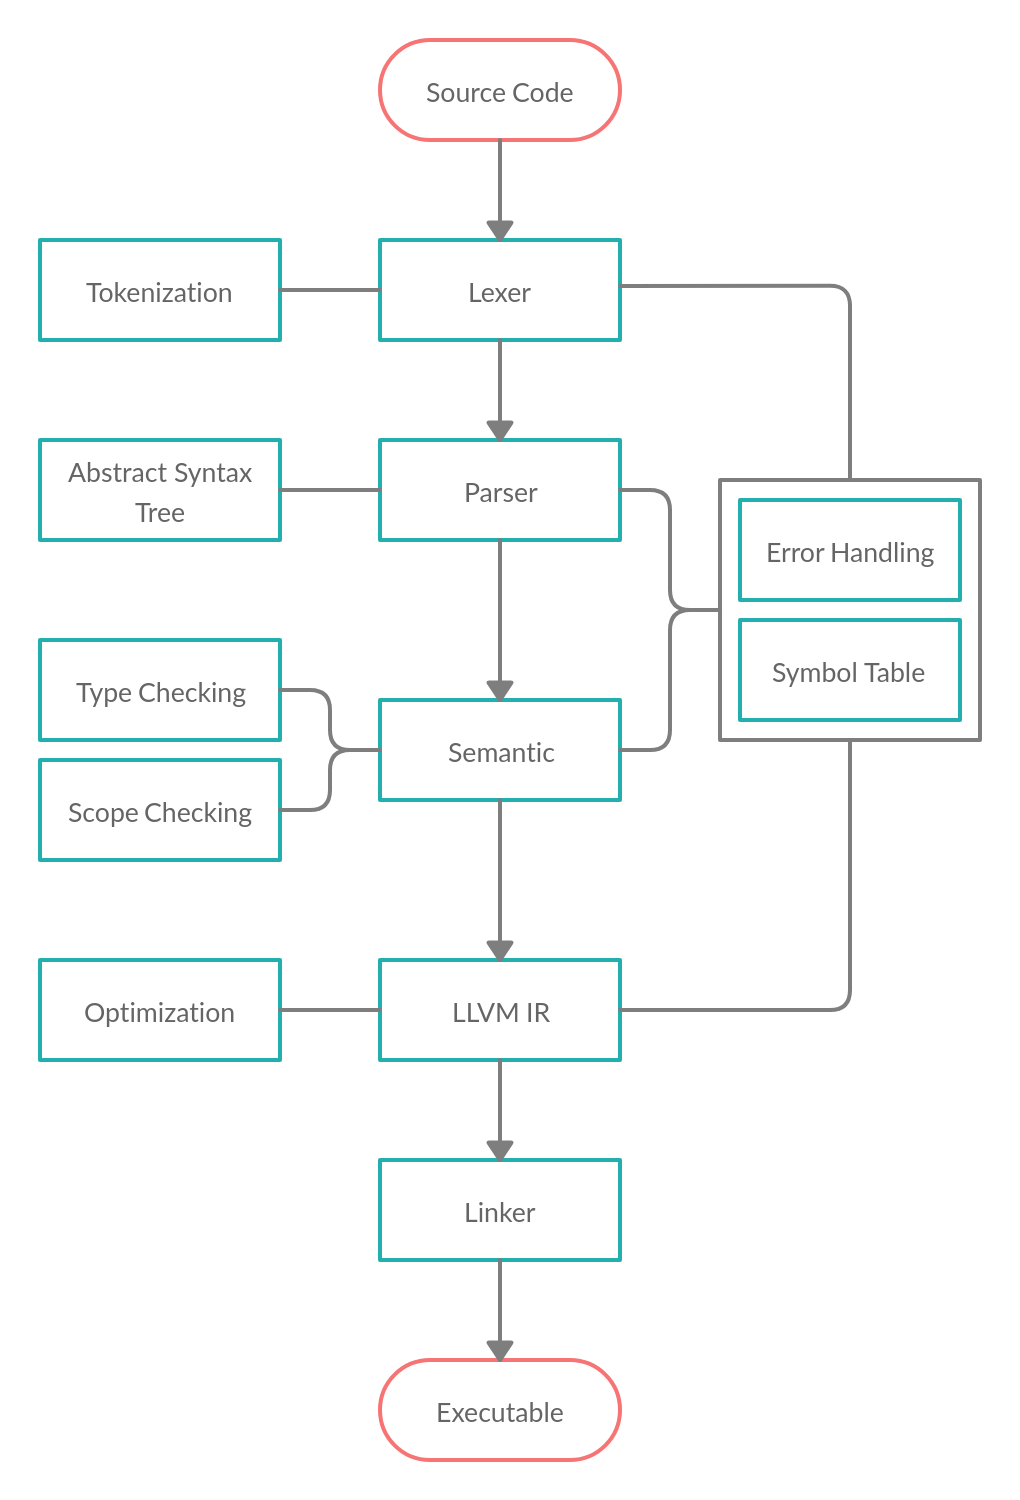
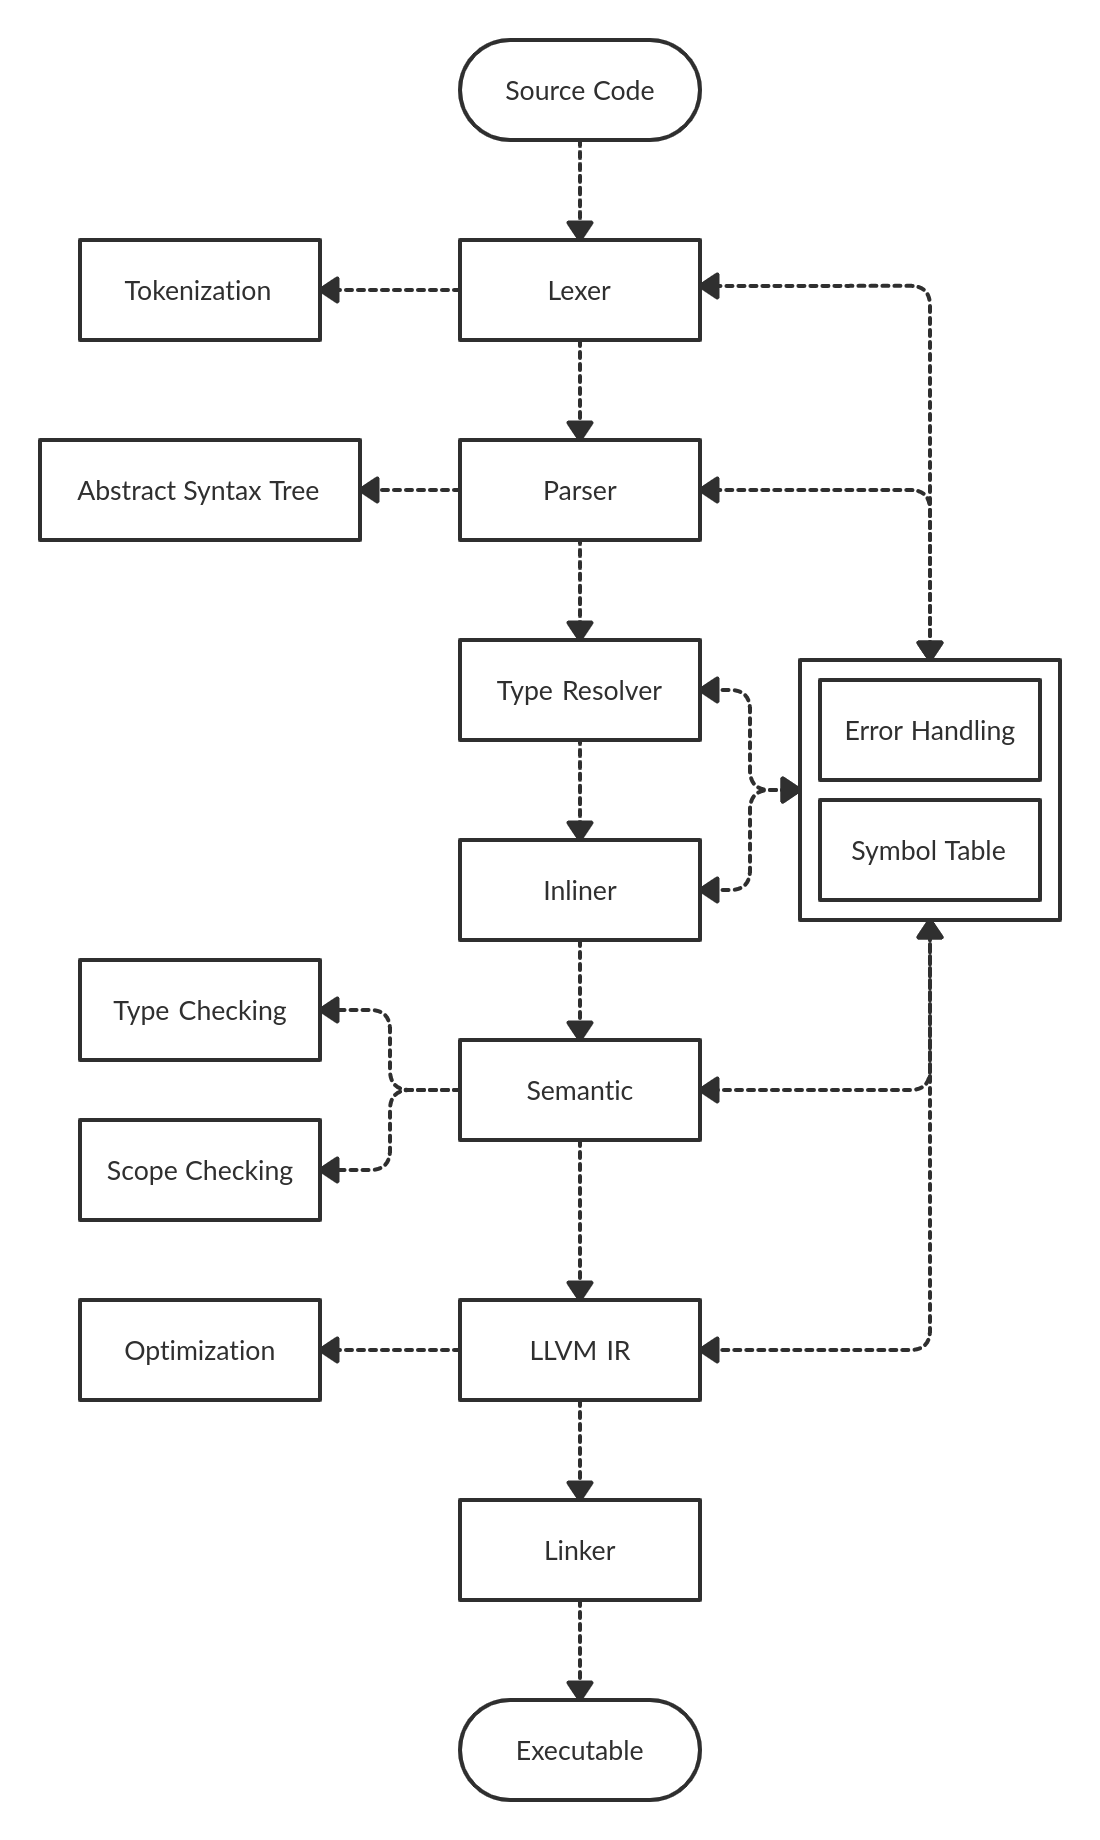
Revised the project structure a bit.

diff --git a/compiler/src/semantic/typeresolver.cpp b/compiler/src/semantic/typeresolver.cpp
@@ -25,8 +25,6 @@ void TypeResolver::visit(const SharedASTNode &node) {
         while (firstIdentifier->getLastIdentifier() != nullptr)
             firstIdentifier = firstIdentifier->getLastIdentifier();
 
-        if (firstIdentifier->getKind() == ASTNode::FUNCTION_CALL)
-            return TypeResolver::visit(std::static_pointer_cast<FunctionCallNode>(node));
         return TypeResolver::visit(firstIdentifier);
     } else if (node->getKind() == ASTNode::NUMBER) {
         TypeResolver::visit(std::static_pointer_cast<NumberNode>(node));
@@ -200,11 +198,13 @@ void TypeResolver::visit(const SharedIdentifierNode &identifierNode) {
         identifierNode->findNodeOfParents<RootNode>()->searchWithImports(
                 foundNodes, identifierNode->getIdentifier()->getContent(), scopeCheck);
     } else if (identifierNode->getKind() == ASTNode::FUNCTION_CALL) {
-        auto functionCall = std::static_pointer_cast<FunctionCallNode>(identifierNode);
+        auto functionCallNode = std::static_pointer_cast<FunctionCallNode>(identifierNode);
+        for (const auto &argument : functionCallNode->getArguments())
+            TypeResolver::visit(argument);
+
         auto scopeResolution = (functionNode && functionNode->getScopeResolution()) ?
                                functionNode->getScopeResolution() : nullptr;
-
-        auto scopeCheck = [identifierNode, scopeResolution, functionCall](
+        auto scopeCheck = [identifierNode, scopeResolution, functionCallNode](
                 const SharedASTNode &node) {
             if (node->getKind() != ASTNode::FUNCTION)
                 return false;
@@ -216,24 +216,24 @@ void TypeResolver::visit(const SharedIdentifierNode &identifierNode) {
                     scopeResolution->getTypeToken()->getContent()))
                 return false;
             if (function->getScopeResolution() && !scopeResolution) {
-                if (functionCall->getLastIdentifier() == nullptr ||
-                    !functionCall->getLastIdentifier()->getType()->getTargetStruct())
+                if (functionCallNode->getLastIdentifier() == nullptr ||
+                    !functionCallNode->getLastIdentifier()->getType()->getTargetStruct())
                     return false;
 
                 if (function->getScopeResolution()->getTypeToken()->getContent() !=
-                    functionCall->getLastIdentifier()->getType()->getTargetStruct()->getName()->getContent())
+                    functionCallNode->getLastIdentifier()->getType()->getTargetStruct()->getName()->getContent())
                     return false;
             }
 
             if (!function->isVariadic() &&
-                (function->getParameters().size() != functionCall->getArguments().size()))
+                (function->getParameters().size() != functionCallNode->getArguments().size()))
                 return false;
 
-            auto sortedArguments(functionCall->getArguments());
-            if (!functionCall->getSortedArguments(function, sortedArguments))
+            auto sortedArguments(functionCallNode->getArguments());
+            if (!functionCallNode->getSortedArguments(function, sortedArguments))
                 return false;
 
-            for (auto index = 0; index < functionCall->getArguments().size(); index++) {
+            for (auto index = 0; index < functionCallNode->getArguments().size(); index++) {
                 if (index >= function->getParameters().size())
                     break;
 
@@ -339,6 +339,9 @@ void TypeResolver::visit(const SharedIdentifierNode &identifierNode) {
     else if (identifierNode->isDereference())
         identifierNode->getType()->setPointerLevel(identifierNode->getType()->getPointerLevel() - 1);
 
+    if(identifierNode->getKind() == ASTNode::FUNCTION_CALL)
+        TypeResolver::visit(std::static_pointer_cast<FunctionCallNode>(identifierNode));
+
     if (identifierNode->getNextIdentifier() != nullptr &&
         identifierNode->getType()->getTargetStruct() == nullptr) {
         THROW_NODE_ERROR(identifierNode, "The identifier has no struct, so there can't be a following "
@@ -442,10 +445,6 @@ void TypeResolver::visit(const SharedStructArgumentNode &structArgumentNode) {
 void TypeResolver::visit(const SharedFunctionCallNode &functionCallNode) {
     if (functionCallNode->isTypeResolved())
         return;
-
-    for (const auto &argument : functionCallNode->getArguments())
-        TypeResolver::visit(argument);
-    TypeResolver::visit(std::static_pointer_cast<IdentifierNode>(functionCallNode));
 
     auto functionNode = std::static_pointer_cast<FunctionNode>(functionCallNode->getTargetNode());
     if (functionNode == nullptr) {

diff --git a/compiler/src/main.cpp b/compiler/src/main.cpp
@@ -1,6 +1,6 @@
 #include <iostream>
 
-#include "options/OptionParser.h"
+#include "utils/optionparser.h"
 #include "compiler/compiler.h"
 #include "compiler/options.h"
 
@@ -48,7 +48,7 @@ int main(int argc, char *argv[]) {
 
     compilerOptions.m_SearchPaths.push_back(
             compilerOptions.m_SourceFile.substr(0, compilerOptions.m_SourceFile.rfind('/')));
-    compilerOptions.m_SearchPaths.emplace_back("../../natives");
+    compilerOptions.m_SearchPaths.emplace_back("../../stdlib");
     compilerOptions.m_SearchPaths.emplace_back("");
 
     return Compiler::compile(compilerOptions);

diff --git a/compiler/src/semantic/scopecheck.cpp b/compiler/src/semantic/scopecheck.cpp
@@ -234,8 +234,8 @@ void ScopeCheck::visit(const SharedIdentifierNode &identifierNode) {
     }
 
     if (targetVariableIndex > variableParentIndex) {
-        THROW_NODE_ERROR(identifierNode,
-                         "Couldn't target the variable because it's not created yet.")
+        THROW_NODE_ERROR(identifierNode, "Couldn't target the variable because it's not created "
+                                         "yet.")
         return;
     }
 }

diff --git a/compiler/src/compiler/compiler.cpp b/compiler/src/compiler/compiler.cpp
@@ -16,7 +16,7 @@
 #include "../semantic/scopecheck.h"
 #include "../semantic/typecheck.h"
 #include "../utils/astprinter.h"
-#include "../semantic/inliner.h"
+#include "../codegen/inliner.h"
 #include "../parser/astnodes.h"
 #include "../codegen/codegen.h"
 #include "../parser/parser.h"

diff --git a/compiler/src/codegen/inliner.cpp b/compiler/src/codegen/inliner.cpp
@@ -9,7 +9,7 @@
 #include "../parser/astnodes.h"
 #include "../lexer/token.h"
 #include "../utils/utils.h"
-#include "typeresolver.h"
+#include "../semantic/typeresolver.h"
 
 SharedVariableNode Inliner::visit(const SharedASTNode &node) {
     if (node->getKind() == ASTNode::ROOT) {

diff --git a/compiler/src/codegen/codegen.cpp b/compiler/src/codegen/codegen.cpp
@@ -13,7 +13,7 @@
 #include "../semantic/typecheck.h"
 #include "../semantic/scopecheck.h"
 #include "../parser/symboltable.h"
-#include "../semantic/inliner.h"
+#include "inliner.h"
 #include "../compiler/error.h"
 #include "../lexer/lexer.h"
 #include "../lexer/token.h"

diff --git a/compiler/src/utils/optionparser.cpp b/compiler/src/utils/optionparser.cpp
@@ -2,7 +2,7 @@
 // Created by timo on 9/19/20.
 //
 
-#include "OptionParser.h"
+#include "optionparser.h"
 
 #include <sstream>
 #include <iomanip>

diff --git a/README.md b/README.md
@@ -1,27 +1,33 @@
 # Arkoi Language
-[![](https://jitpack.io/v/ArkoiSystems/ArkoiL.svg)](https://jitpack.io/#ArkoiSystems/ArkoiL)
 ![GitHub repo size](https://img.shields.io/github/repo-size/ArkoiSystems/ArkoiL)
-![GitHub](https://img.shields.io/github/license/ArkoiSystems/ArkoiL)
+![GitHub license](https://img.shields.io/github/license/ArkoiSystems/ArkoiL)
 ![GitHub commit activity](https://img.shields.io/github/commit-activity/w/ArkoiSystems/ArkoiL)
 
-This repository contains the ``compiler``, ``integrations`` of the language and ``examples``
-for the Arkoi Language. For more information about ArkoiL, including downloads and documentation
-for the latest release, check out [ArkoiL's website](https://lang.arkoisystems.com/).
+Arkoi is a compiled programming language that tries to combine properties of many
+languages. The focus is on creating a simple, yet powerful programming language that
+is also quite customizable.
 
 ### Compiler structure:
 ![compiler structure](assets/structure.png "General structure of the Compiler")
 
+## Ideas behind the language:
+* Strong type system
+* Flexible code through features
+* Understandable code
+* Combining VM-based features (e.g. Java, Python) with compiled code
+
 ## Contributing
 
-If you're interested in the development of ArkoiL, please make sure you read the documentation
-and youre familiar with the structure of the project. To give a bit information about the 
-structure, I did a short summary:
+If you are interested in developing ArkoiL, please make sure that you read the
+documentation and are familiar with the structure of the project. To give some
+information about the structure I have created a short summary:
 
-* ``compiler/`` - the compiler source code.
-* ``examples`` - examples which you can use to test the language.
-* ``natives`` - functions which are directly included to the language (the location will change in the future).
-
-## W.I.P..
+* ``compiler/``     - the compilers directory.
+    * ``cmake/``    - cmake files to search relevant libraries.
+    * ``src/``    - the sourcecode of the compiler.
+    * ``CMakeLists.txt`` - the cmake file to build the project etc.
+* ``tests/``         - examples which you can use to test the language.
+* ``stdlib/``        - functions and structs which are directly included to the language.
 
 ## License 
 
